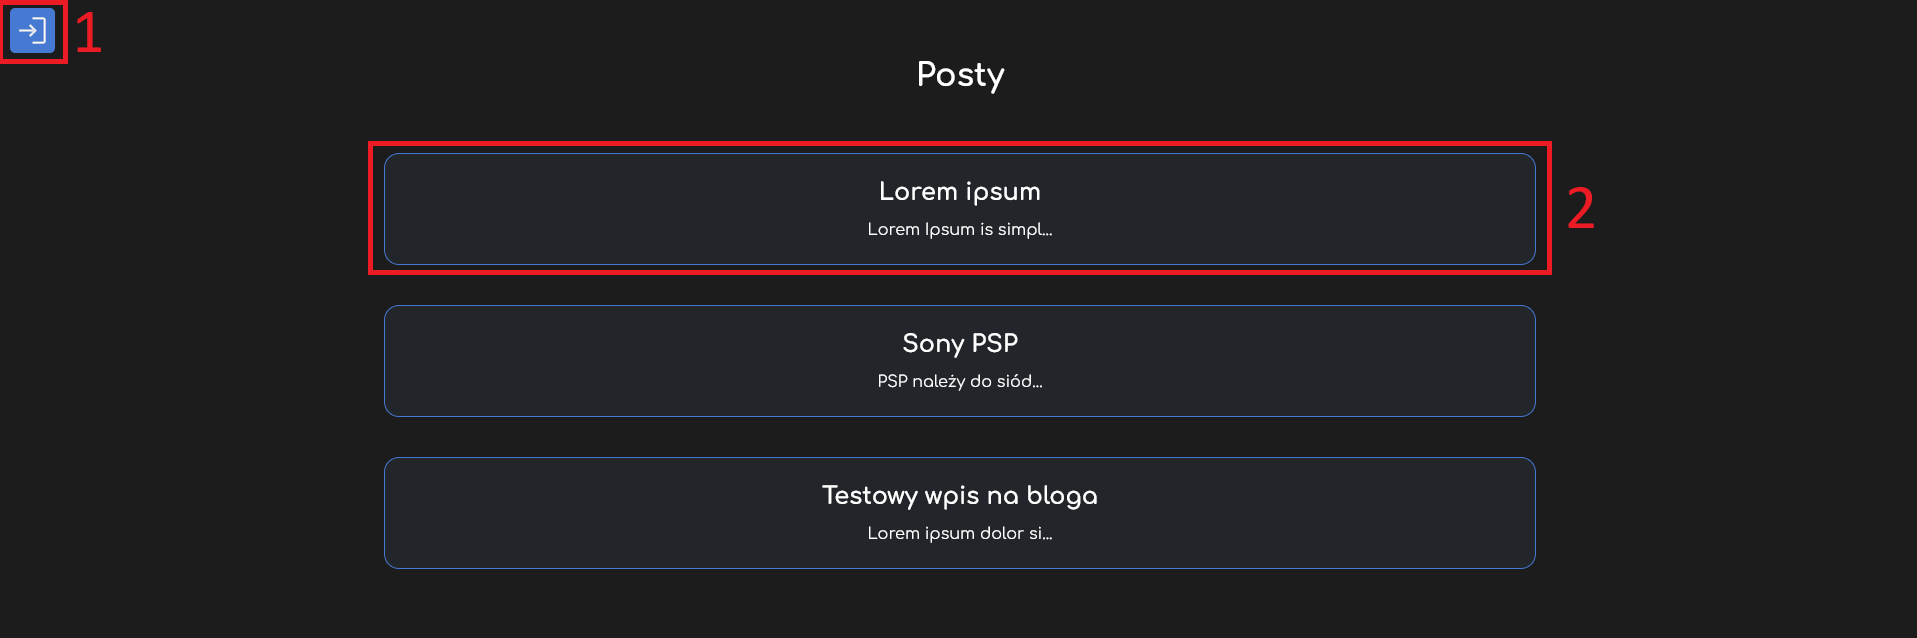
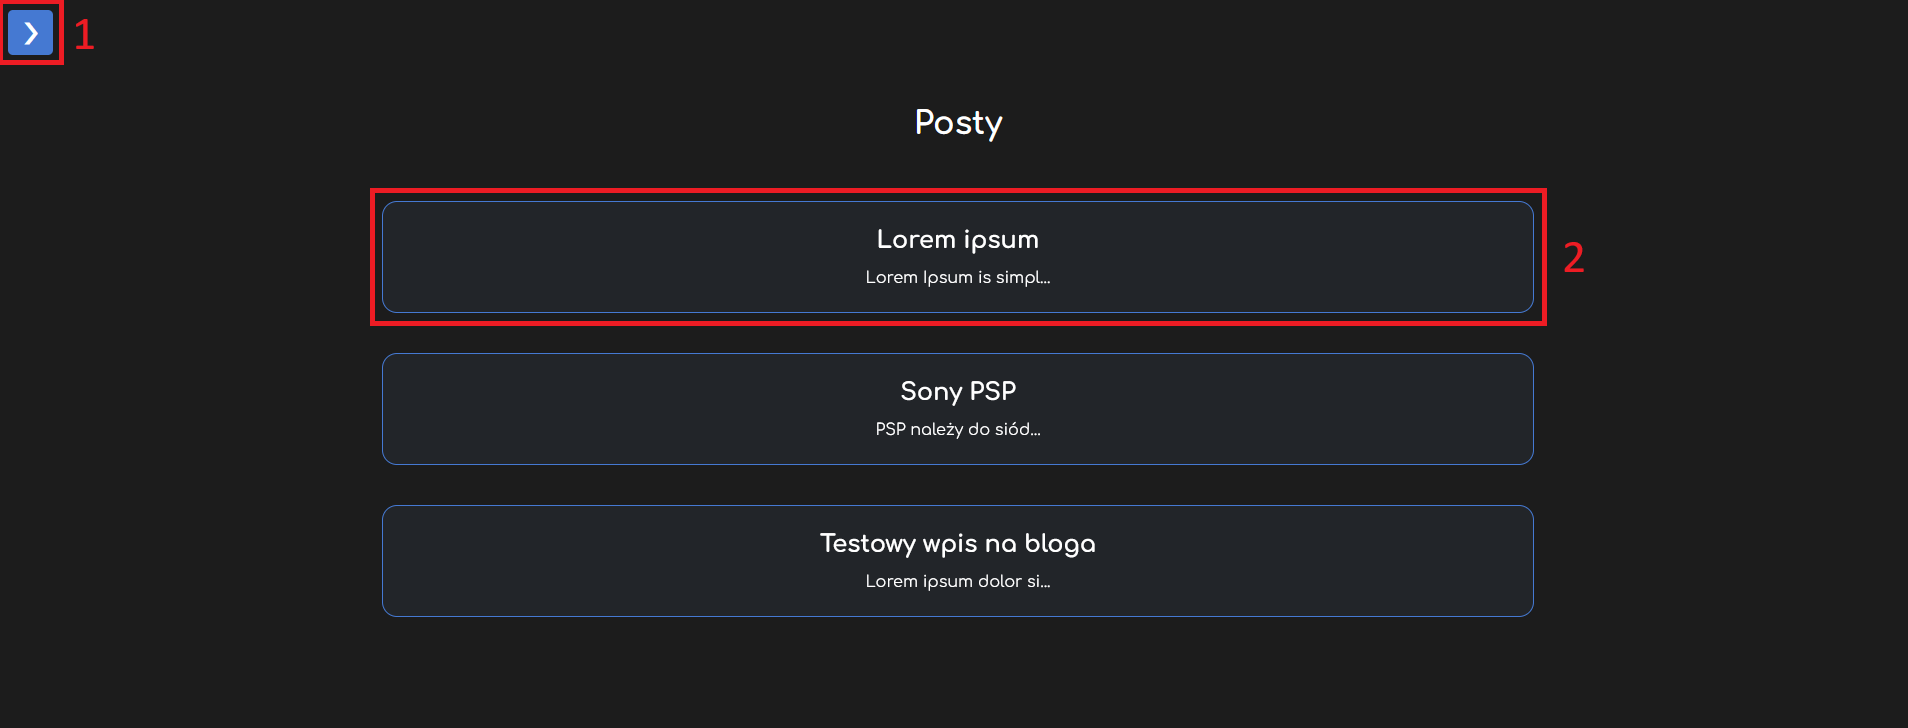
Minor changes

diff --git a/Wit-projekt/About/index.html b/Wit-projekt/About/index.html
@@ -6,7 +6,6 @@
     <meta name="viewport" content="width=device-width, initial-scale=1.0" />
     <meta http-equiv="X-UA-Compatible" content="IE=edge" />
 
-    <meta http-equiv="X-Content-Type-Options" content="nosniff" />
     <meta name="referrer" content="no-referrer-when-downgrade" />
     <meta
       name="description"
@@ -110,12 +109,12 @@
         <section class="game-shelf">
             <h2>Gry, które ukończyłem</h2>
             <div class="shelf-3d">
-                <img src="Game-covers/hl2.jpg" alt="hl2">
-                <img src="Game-covers/RTTC.jpg" alt="RTTC">
-                <img src="Game-covers/COD1.jpg" alt="COD1">
-                <img src="Game-covers/Tearaway.jpg" alt="Tearaway">
-                <img src="Game-covers/Portal2.jpg" alt="Portal2">
-                <img src="Game-covers/Kirby.jpg" alt="Kirby">
+                <a href="https://www.igdb.com/games/half-life-2" target="_blank"><img src="Game-covers/hl2.jpg" alt="hl2"></a>
+                <a href="https://www.igdb.com/games/return-to-castle-wolfenstein" target="_blank"><img src="Game-covers/RTTC.jpg" alt="RTTC"></a>
+                <a href="https://www.igdb.com/games/call-of-duty--1" target="_blank"><img src="Game-covers/COD1.jpg" alt="COD1"></a>
+                <a href="https://www.igdb.com/games/tearaway" target="_blank"><img src="Game-covers/Tearaway.jpg" alt="Tearaway"></a>
+                <a href="https://www.igdb.com/games/portal-2" target="_blank"><img src="Game-covers/Portal2.jpg" alt="Portal2"></a>
+                <a href="https://www.igdb.com/search?utf8=%E2%9C%93&q=kirby%20nightmare" target="_blank"><img src="Game-covers/Kirby.jpg" alt="Kirby"></a>
             </div>
         </section>
 

diff --git a/Wit-projekt/Projects/index.html b/Wit-projekt/Projects/index.html
@@ -5,12 +5,7 @@
     <meta charset="UTF-8" />
     <meta name="viewport" content="width=device-width, initial-scale=1.0" />
     <meta http-equiv="X-UA-Compatible" content="IE=edge" />
-    <meta
-      http-equiv="Content-Security-Policy"
-      content="default-src 'self'; script-src 'self' 'unsafe-inline'; style-src 'self' 'unsafe-inline'; connect-src 'self' http://localhost:* http://127.0.0.1:* https://wit-projekt.pl/;"
-    />
 
-    <meta http-equiv="X-Content-Type-Options" content="nosniff" />
     <meta name="referrer" content="no-referrer-when-downgrade" />
     <meta
       name="description"
@@ -33,7 +28,6 @@
     <link rel="stylesheet" href="../common-style.css">
     <link rel="stylesheet" href="projects-style.css">
     <script src="projects-script.js" defer></script>
-    <script src="../common-script.js" defer></script>
     <link rel="icon" href="../favicon.ico" type="image/png">
 </head>
 

diff --git a/Wit-projekt/404-page/404-style.css b/Wit-projekt/404-page/404-style.css
@@ -1,4 +1,3 @@
-
 body {
   height: 100svh;
   background: #0d0d0d;
@@ -14,7 +13,7 @@ body {
   position: absolute;
   width: 100%;
   height: 100%;
-  background-image: url('https://media.giphy.com/media/oEI9uBYSzLpBK/giphy.gif');
+  background-image: url('../Images/404bg.webp');
   background-size: cover;
   opacity: 0.04;
   pointer-events: none;
@@ -59,10 +58,12 @@ body {
     clip: rect(0, 9999px, 0, 0);
     transform: translate(0);
   }
+
   5% {
     clip: rect(0, 9999px, 100px, 0);
     transform: translate(-5px, -3px);
   }
+
   10% {
     clip: rect(0, 9999px, 0, 0);
     transform: translate(0);
@@ -74,10 +75,12 @@ body {
     clip: rect(0, 9999px, 0, 0);
     transform: translate(0);
   }
+
   5% {
     clip: rect(0, 9999px, 100px, 0);
     transform: translate(5px, 3px);
   }
+
   10% {
     clip: rect(0, 9999px, 0, 0);
     transform: translate(0);

diff --git a/Wit-projekt/Contact-site/index.html b/Wit-projekt/Contact-site/index.html
@@ -5,10 +5,6 @@
     <meta charset="UTF-8" />
     <meta name="viewport" content="width=device-width, initial-scale=1.0" />
     <meta http-equiv="X-UA-Compatible" content="IE=edge" />
-    <meta http-equiv="Content-Security-Policy"
-        content="default-src 'self'; script-src 'self' 'unsafe-inline'; style-src 'self' 'unsafe-inline'; connect-src 'self' http://localhost:* http://127.0.0.1:* https://wit-projekt.pl/;" />
-
-    <meta http-equiv="X-Content-Type-Options" content="nosniff" />
     <meta name="referrer" content="no-referrer-when-downgrade" />
     <meta name="description" content="Wit-projekt to moje portfolio :D" />
     <meta name="keywords" content="Wit-projekt, web development, programming, projects, portfolio" />

diff --git a/Wit-projekt/Gallery-real-photo/index.html b/Wit-projekt/Gallery-real-photo/index.html
@@ -5,12 +5,6 @@
     <meta charset="UTF-8" />
     <meta name="viewport" content="width=device-width, initial-scale=1.0" />
     <meta http-equiv="X-UA-Compatible" content="IE=edge" />
-    <meta
-      http-equiv="Content-Security-Policy"
-      content="default-src 'self'; script-src 'self' 'unsafe-inline'; style-src 'self' 'unsafe-inline'; connect-src 'self' http://localhost:* http://127.0.0.1:* https://wit-projekt.pl/;"
-    />
-
-    <meta http-equiv="X-Content-Type-Options" content="nosniff" />
     <meta name="referrer" content="no-referrer-when-downgrade" />
     <meta
       name="description"

diff --git a/Wit-projekt/Gallery-gaming/index.html b/Wit-projekt/Gallery-gaming/index.html
@@ -5,12 +5,6 @@
    <meta charset="UTF-8" />
     <meta name="viewport" content="width=device-width, initial-scale=1.0" />
     <meta http-equiv="X-UA-Compatible" content="IE=edge" />
-    <meta
-      http-equiv="Content-Security-Policy"
-      content="default-src 'self'; script-src 'self' 'unsafe-inline'; style-src 'self' 'unsafe-inline'; connect-src 'self' http://localhost:* http://127.0.0.1:* https://wit-projekt.pl/;"
-    />
-
-    <meta http-equiv="X-Content-Type-Options" content="nosniff" />
     <meta name="referrer" content="no-referrer-when-downgrade" />
     <meta
       name="description"

diff --git a/Wit-projekt/404-page/404.html b/Wit-projekt/404-page/404.html
@@ -5,12 +5,7 @@
   <meta charset="UTF-8" />
     <meta name="viewport" content="width=device-width, initial-scale=1.0" />
     <meta http-equiv="X-UA-Compatible" content="IE=edge" />
-    <meta
-      http-equiv="Content-Security-Policy"
-      content="default-src 'self'; script-src 'self' 'unsafe-inline'; style-src 'self' 'unsafe-inline'; connect-src 'self' http://localhost:* http://127.0.0.1:* https://wit-projekt.pl/;"
-    />
 
-    <meta http-equiv="X-Content-Type-Options" content="nosniff" />
     <meta name="referrer" content="no-referrer-when-downgrade" />
     <meta
       name="description"

diff --git a/Wit-projekt/Blog/blog-style.css b/Wit-projekt/Blog/blog-style.css
@@ -101,15 +101,19 @@ h2{
     align-items: center;
     border-radius: 5px;
     transition: 0.5s;
+    text-decoration: none;
+    font-size: 30px;
+    color: var(--clr-font);
+}
+.go-to-login span{
+    position: relative;
+    top: -1px;
 }
 .go-to-login:hover{
     opacity: 0.8;
 
 }
-.go-to-login img{
-    width: 35px;
-    height: 35px;
-}
+
 
 pre{
     white-space: pre-wrap;

diff --git a/Wit-projekt/Homepage/homepage-style.css b/Wit-projekt/Homepage/homepage-style.css
@@ -8,7 +8,6 @@ main {
     min-height: 1150px;
 }
 
-/* sekcja main (hero) */
 
 .hero {
     height: 40vh;

diff --git a/Wit-projekt/Blog/index.php b/Wit-projekt/Blog/index.php
@@ -10,12 +10,6 @@ rsort($posts);
     <meta charset="UTF-8" />
     <meta name="viewport" content="width=device-width, initial-scale=1.0" />
     <meta http-equiv="X-UA-Compatible" content="IE=edge" />
-    <meta
-      http-equiv="Content-Security-Policy"
-      content="default-src 'self'; script-src 'self' 'unsafe-inline'; style-src 'self' 'unsafe-inline'; connect-src 'self' http://localhost:* http://127.0.0.1:* https://wit-projekt.pl/;"
-    />
-
-    <meta http-equiv="X-Content-Type-Options" content="nosniff" />
     <meta name="referrer" content="no-referrer-when-downgrade" />
     <meta
       name="description"
@@ -75,7 +69,7 @@ rsort($posts);
     </header>
 
     <main>
-        <a href="login-and-register/login.php" class="go-to-login"><img src="../images/login.png" alt="login"></a>
+        <a href="login-and-register/login.php" class="go-to-login"><span>&#10095;</span></a>
         <h1>Posty</h1>
         <?php foreach ($posts as $post):
             $lines = file($post);

diff --git a/Wit-projekt/Blog/login-and-register/login.php b/Wit-projekt/Blog/login-and-register/login.php
@@ -28,7 +28,7 @@ if ($_SERVER['REQUEST_METHOD'] === 'POST') {
     <title>Logowanie</title>
     <link rel="stylesheet" href="../../common-style.css">
     <link rel="stylesheet" href="login-and-register-style.css">
-    <link rel="icon" href="../favicon.ico" type="image/png">
+    <link rel="icon" href="../../favicon.ico" type="image/png">
 </head>
 <body>
     <section class="login-form-section">

diff --git a/Wit-projekt/Blog/login-and-register/register.php b/Wit-projekt/Blog/login-and-register/register.php
@@ -7,7 +7,7 @@
     <link rel="stylesheet" href="login-and-register-style.css">
     <link rel="stylesheet" href="../../common-style.css">
     <script src="check-pass.js"></script>
-    <link rel="icon" href="../favicon.ico" type="image/png">
+    <link rel="icon" href="../../favicon.ico" type="image/png">
 </head>
 
 <body>
